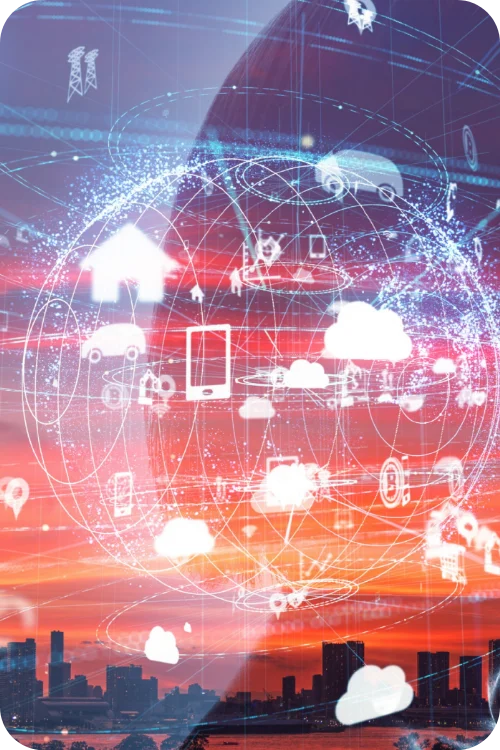
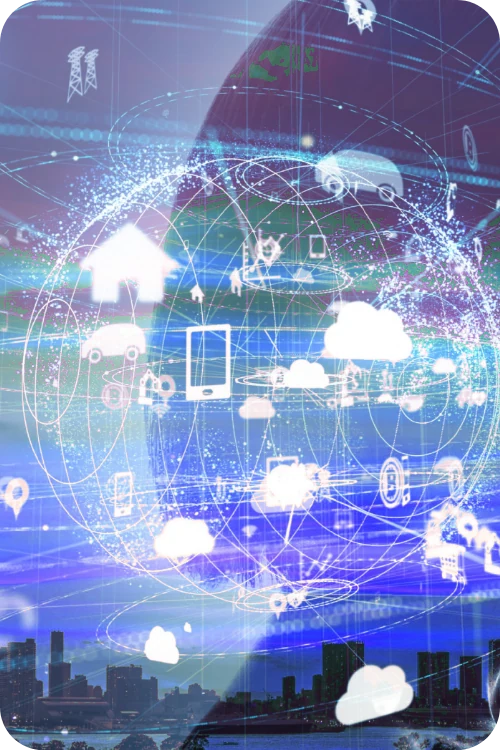
hero: Nischen-Text (Prävention & Wohlbefinden), Hintergrund rot->blau/violett, Badge-Datum Dez 2026
Claude-Session: https://claude.ai/code/session_01TG8wL2VKRkFv2R4HpYepMg

diff --git a/src/growthtogether.at/layouts/_default/home.html b/src/growthtogether.at/layouts/_default/home.html
@@ -8,7 +8,7 @@
     </div>
     <h1 class="htitle">KI, die wirklich<br><span class="acc">für Sie arbeitet.</span></h1>
     <p class="htagline">Vom ersten Gespräch bis zur fertigen Lösung –&nbsp;<br class="htagline-br"><strong>klar, durchdacht und nachhaltig.</strong></p>
-    <p class="hsubtitle">KI-Beraterin für Kleinunternehmen in Österreich – EU AI Act &amp; DSGVO konform, ganz ohne technisches Vorwissen.</p>
+    <p class="hsubtitle">KI-Beraterin für Privatpraxen in Prävention &amp; Wohlbefinden – EU AI Act &amp; DSGVO konform, ganz ohne technisches Vorwissen.</p>
     <div class="hactions">
       <a href="#potenzialanalyse" class="btnp">
         <svg width="16" height="16" viewBox="0 0 24 24" fill="none" stroke="currentColor" stroke-width="2.5"><rect x="3" y="4" width="18" height="18" rx="2"/><path d="M16 2v4M8 2v4M3 10h18"/></svg>
@@ -27,7 +27,7 @@
       </div>
       <div>
         <div class="hbtit">Zertifizierung in Vorbereitung</div>
-        <div class="hbsub">KI Consultant · Abschluss Juni 2026</div>
+        <div class="hbsub">KI Consultant · Abschluss Dezember 2026</div>
       </div>
     </div>
   </div>